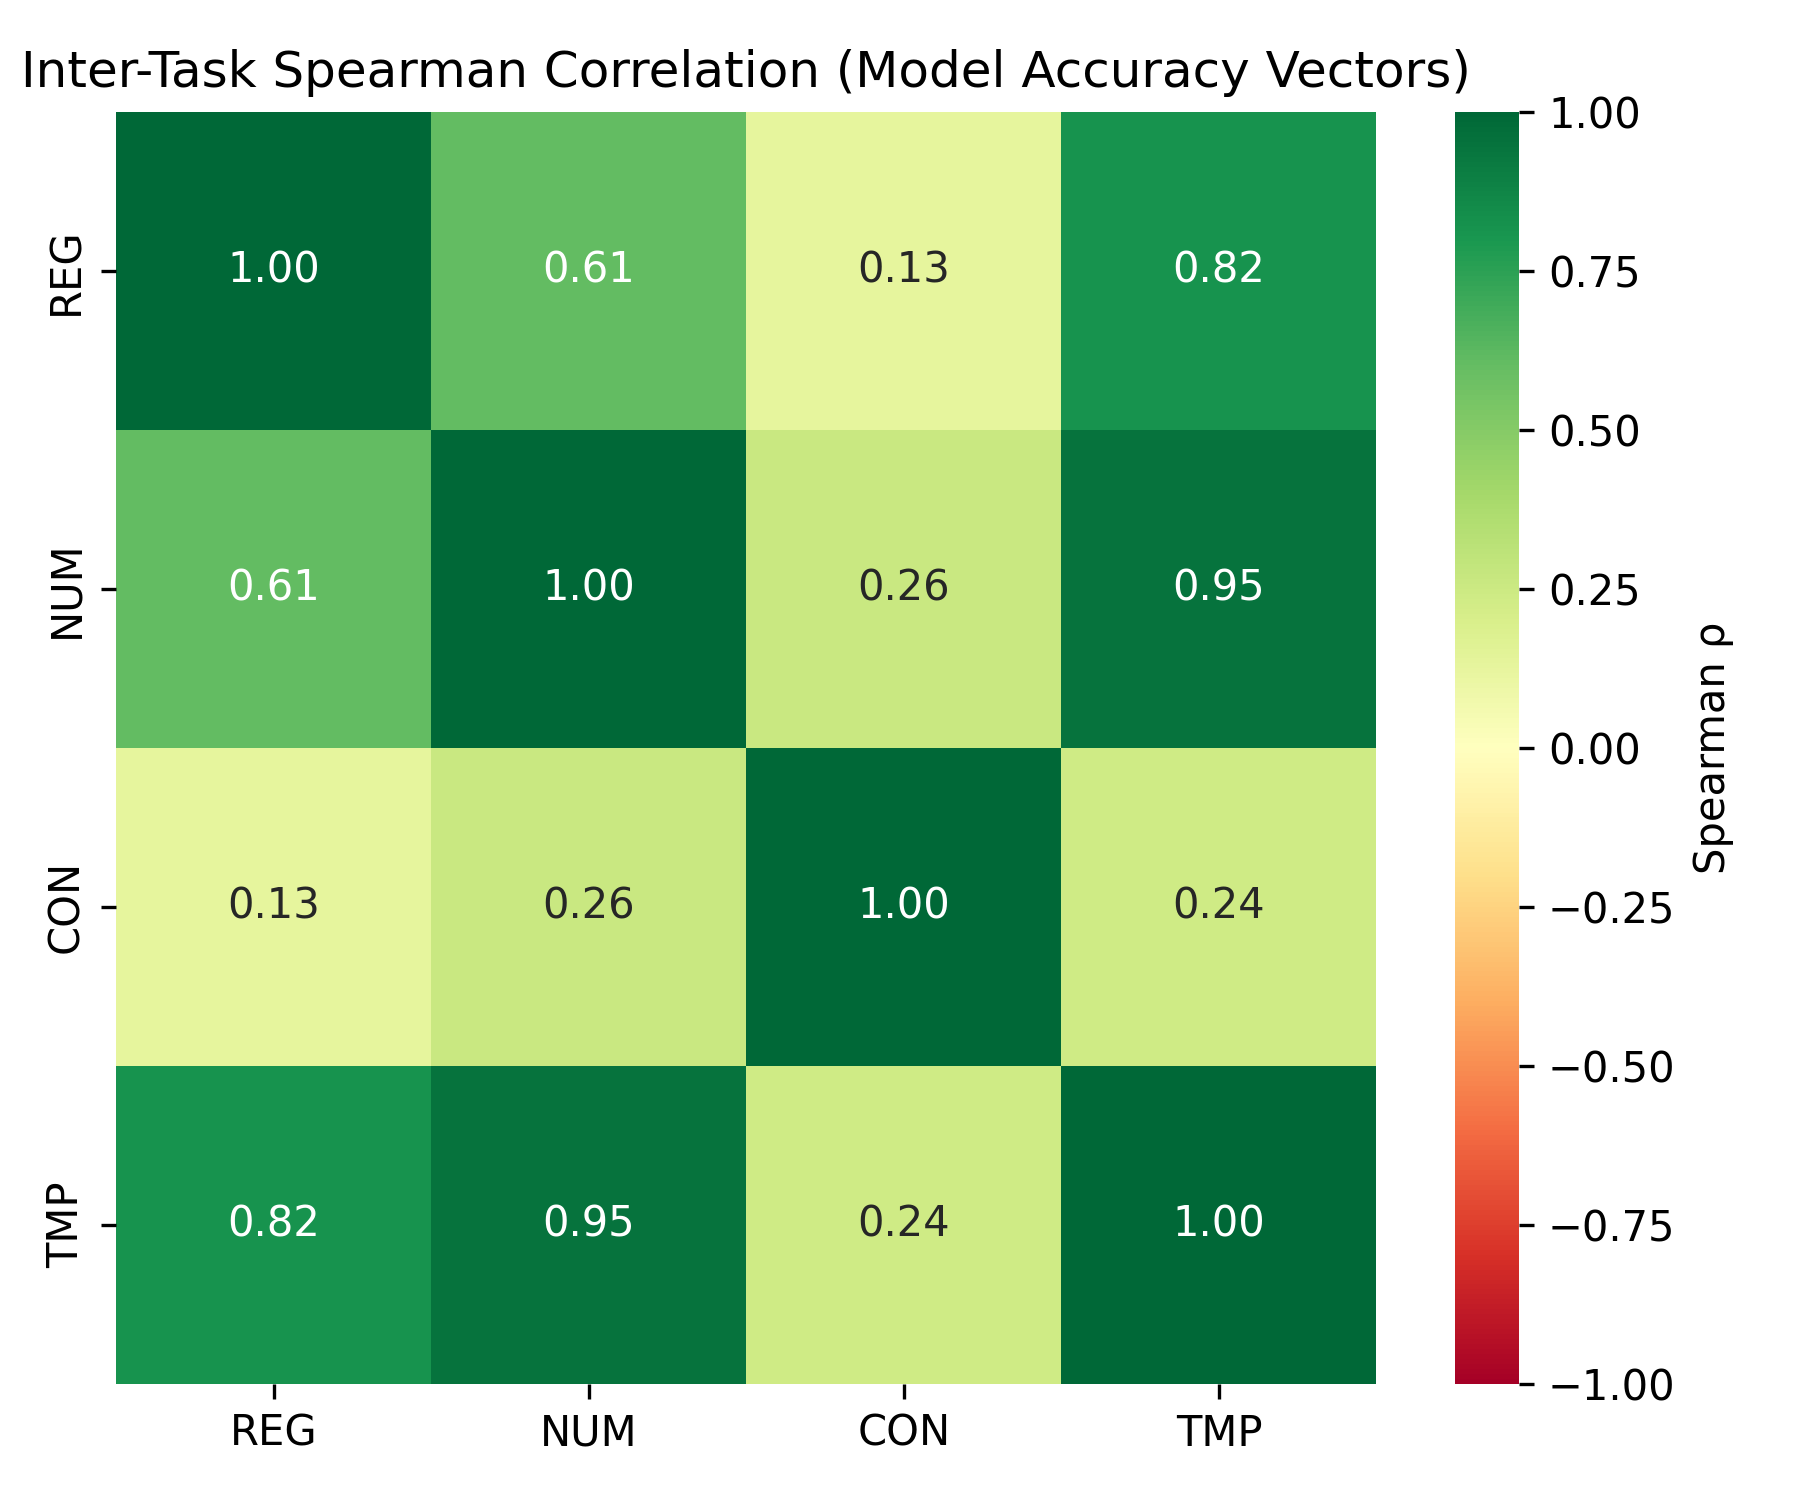
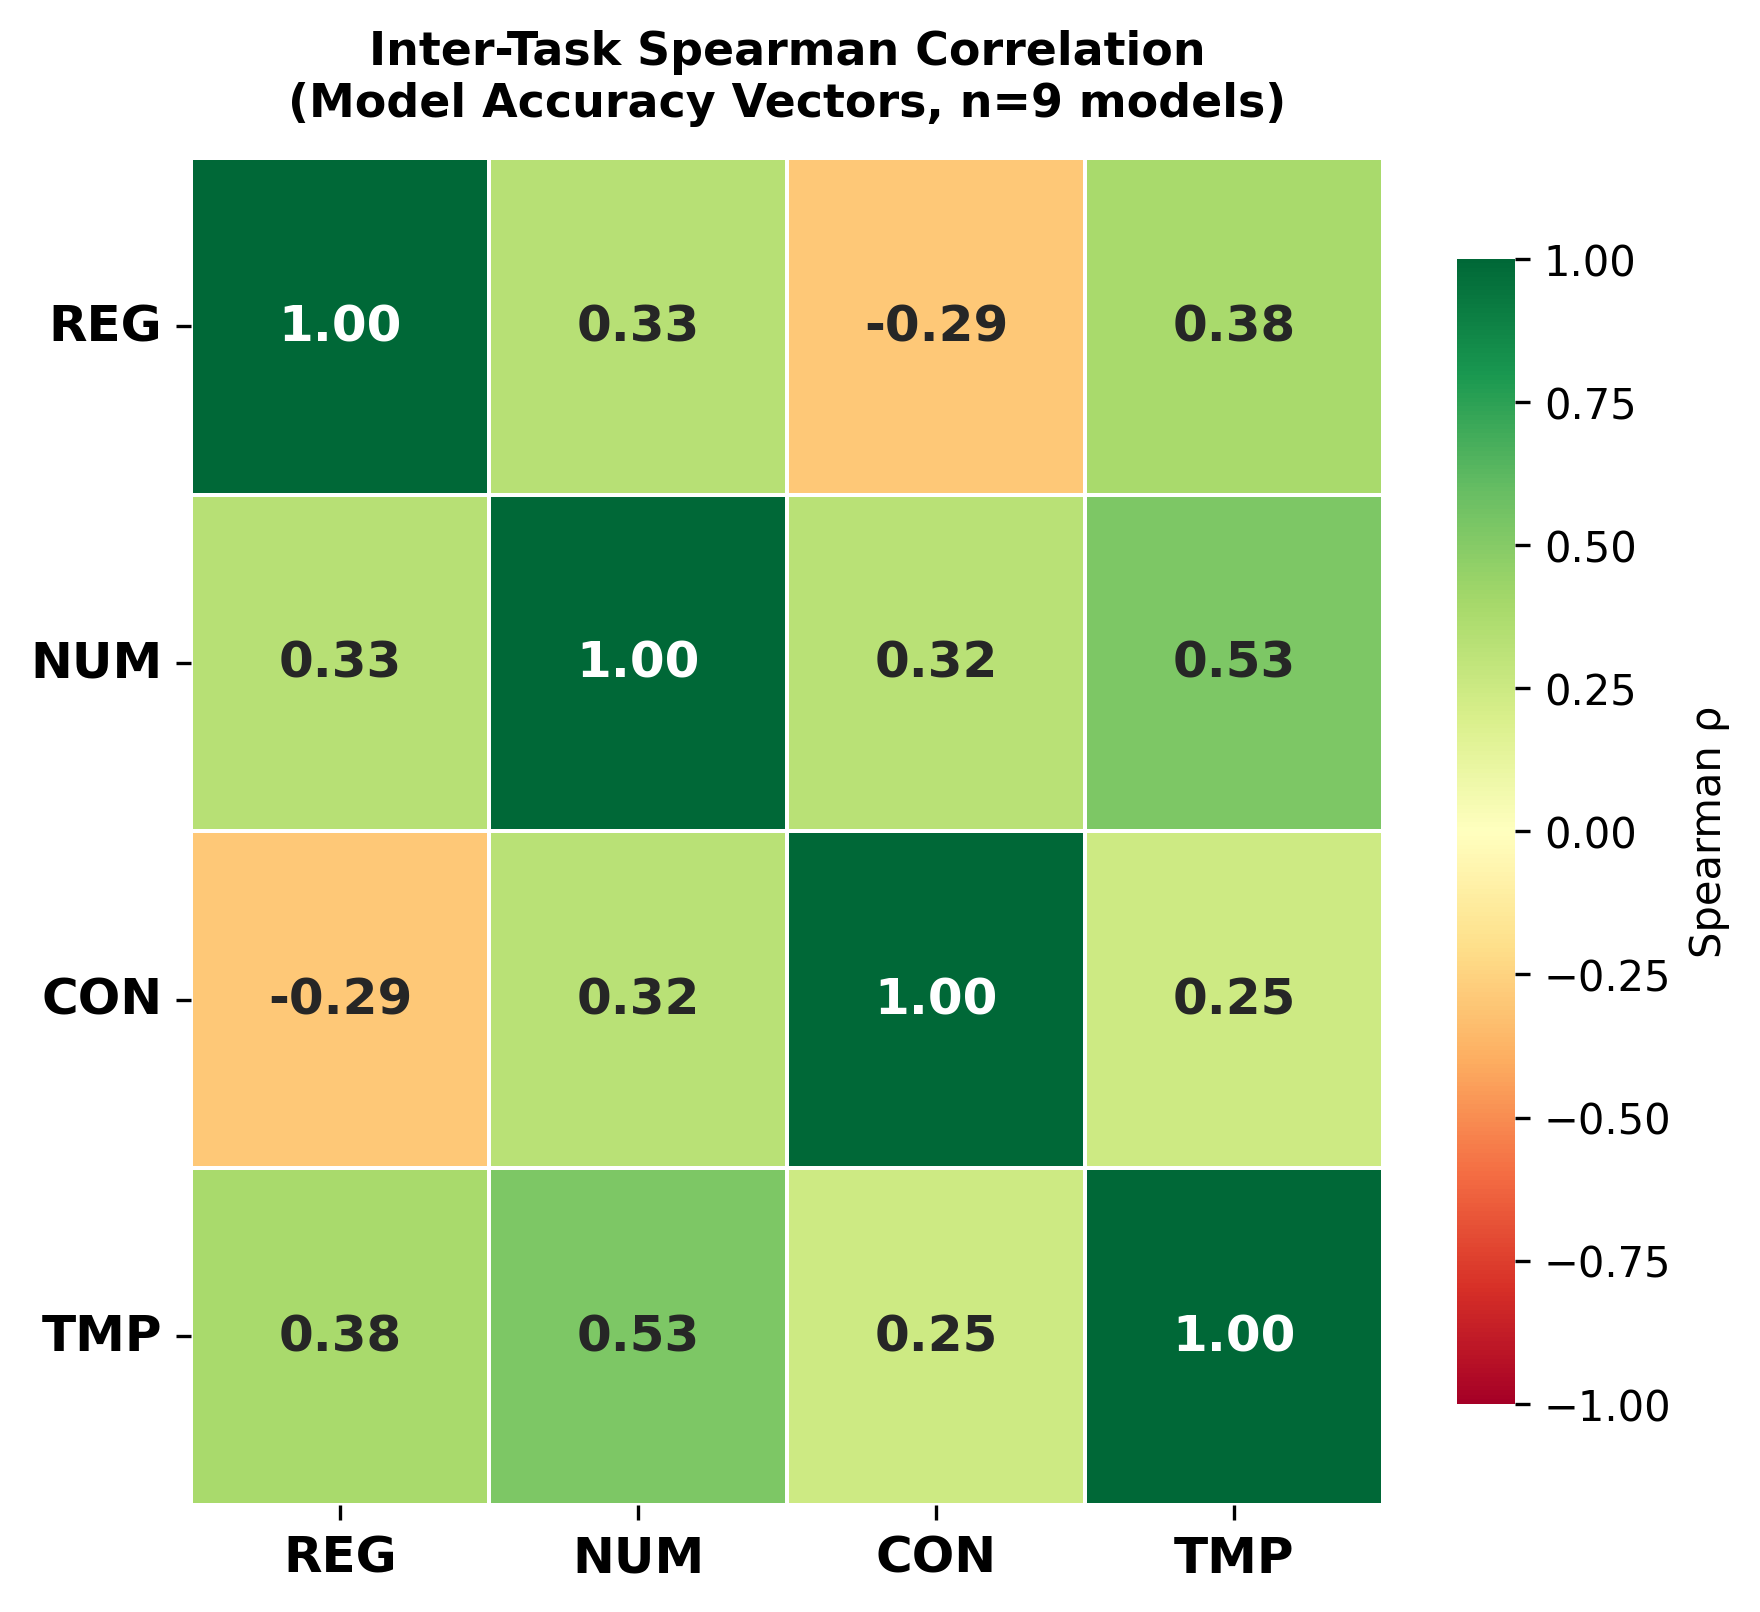
figures: update all 4 figures for 9-model evaluation

diff --git a/paper/figures/generate_radar.py b/paper/figures/generate_radar.py
@@ -1,34 +1,60 @@
-import numpy as np
+"""
+generate_radar.py — IndiaFinBench v7 (9 models)
+Run: python generate_radar.py
+Output: figures/radar_chart.png
+"""
+import matplotlib
+matplotlib.use('Agg')
 import matplotlib.pyplot as plt
+import numpy as np
 
-models = ['Claude 3 Haiku', 'Gemini 2.5 Flash', 'LLaMA-3.3-70B', 'LLaMA-3-8B', 'Mistral-7B']
+models = [
+    'Claude 3 Haiku', 'Gemini 2.5 Flash', 'Llama 4 Scout 17B',
+    'Qwen3-32B', 'LLaMA-3.3-70B', 'LLaMA-3-8B',
+    'Gemma 4 E4B', 'Mistral-7B', 'DeepSeek R1 70B'
+]
 scores = {
-    'Claude 3 Haiku':   [92.5, 93.8, 86.7, 91.4],
-    'Gemini 2.5 Flash': [96.2, 84.4, 83.3, 82.4],
-    'LLaMA-3.3-70B':    [77.4, 84.4, 90.0, 77.1],
-    'LLaMA-3-8B':       [77.4, 62.5, 86.7, 74.3],
-    'Mistral-7B':       [69.8, 68.8, 80.0, 74.3],
+    'Claude 3 Haiku':    [92.5, 93.8, 86.7, 91.4],
+    'Gemini 2.5 Flash':  [96.2, 84.4, 83.3, 80.0],
+    'Llama 4 Scout 17B': [79.2, 75.0,100.0, 80.0],
+    'Qwen3-32B':         [77.4, 75.0, 86.7, 94.3],
+    'LLaMA-3.3-70B':     [77.4, 84.4, 90.0, 77.1],
+    'LLaMA-3-8B':        [77.4, 62.5, 86.7, 74.3],
+    'Gemma 4 E4B':       [90.6, 65.6, 76.7, 57.1],
+    'Mistral-7B':        [69.8, 68.8, 80.0, 74.3],
+    'DeepSeek R1 70B':   [60.4, 78.1, 93.3, 60.0],
 }
-labels = ['REG', 'NUM', 'CON', 'TMP']
-colors = ['#2196F3', '#4CAF50', '#FF9800', '#9C27B0', '#F44336']
+COLORS  = ['#2196F3','#4CAF50','#FF9800','#9C27B0','#F44336','#00BCD4','#FF5722','#795548','#607D8B']
+MARKERS = ['o','s','^','D','v','P','h','*','X']
+labels  = ['REG\n(Reg. Interp.)','NUM\n(Num. Reasoning)','CON\n(Contradiction\nDet.)','TMP\n(Temporal\nReasoning)']
+
 N = 4
-angles = np.linspace(0, 2 * np.pi, N, endpoint=False).tolist()
-angles += angles[:1]
+angles = np.linspace(0, 2*np.pi, N, endpoint=False).tolist() + [0]
 
-fig, ax = plt.subplots(figsize=(7, 7), subplot_kw=dict(polar=True))
-ax.set_theta_offset(np.pi / 2)
+fig, ax = plt.subplots(figsize=(8,8), subplot_kw=dict(polar=True))
+ax.set_theta_offset(np.pi/2)
 ax.set_theta_direction(-1)
+ax.set_facecolor('#f9f9f9')
+fig.patch.set_facecolor('white')
 
-for idx, (model, vals) in enumerate(scores.items()):
-    vals_plot = vals + vals[:1]
-    ax.plot(angles, vals_plot, color=colors[idx], linewidth=2, label=model)
-    ax.fill(angles, vals_plot, color=colors[idx], alpha=0.08)
+for i, (model, col, mk) in enumerate(zip(models, COLORS, MARKERS)):
+    vals = scores[model] + [scores[model][0]]
+    lw = 2.5 if i < 2 else (2.0 if i < 5 else 1.5)
+    ls = '-'  if i < 5 else '--'
+    ax.plot(angles, vals, marker=mk, color=col, linewidth=lw,
+            linestyle=ls, markersize=5, label=model, alpha=0.88)
+    ax.fill(angles, vals, alpha=0.05, color=col)
 
-ax.set_thetagrids(np.degrees(angles[:-1]), labels, fontsize=14)
-ax.set_ylim(60, 100)
-ax.set_rgrids([70, 80, 90, 100], labels=['70%', '80%', '90%', '100%'], fontsize=9)
-ax.legend(loc='upper right', bbox_to_anchor=(1.4, 1.15), fontsize=10)
-ax.set_title('Model Capability Profiles Across Task Types', y=1.10, fontsize=14)
+ax.set_thetagrids(np.degrees(angles[:-1]), labels, fontsize=12, fontweight='bold')
+ax.set_ylim(50, 105)
+ax.set_rgrids([60,70,80,90,100], labels=['60%','70%','80%','90%','100%'], fontsize=9, color='grey')
+ax.grid(color='grey', linestyle='--', linewidth=0.5, alpha=0.5)
+ax.spines['polar'].set_visible(False)
+ax.legend(models, loc='upper right', bbox_to_anchor=(1.45,1.18),
+          fontsize=9, framealpha=0.92, edgecolor='#cccccc')
+ax.set_title('Model Capability Profiles Across Task Types', y=1.12, fontsize=14, fontweight='bold')
+
+import os; os.makedirs('figures', exist_ok=True)
 plt.tight_layout()
-plt.savefig('figures/radar_chart.png', dpi=300, bbox_inches='tight')
+plt.savefig('figures/radar_chart.png', dpi=300, bbox_inches='tight', facecolor='white')
 print("Saved figures/radar_chart.png")

diff --git a/paper/figures/generate_difficulty_plot.py b/paper/figures/generate_difficulty_plot.py
@@ -1,32 +1,54 @@
+"""
+generate_difficulty_plot.py — IndiaFinBench v7 (9 models)
+Run: python generate_difficulty_plot.py
+Output: figures/difficulty_lineplot.png
+"""
+import matplotlib
+matplotlib.use('Agg')
 import matplotlib.pyplot as plt
 import numpy as np
 
-models = ['Claude 3 Haiku', 'Gemini 2.5 Flash', 'LLaMA-3.3-70B', 'LLaMA-3-8B', 'Mistral-7B']
-difficulties = ['Easy', 'Medium', 'Hard']
+models = [
+    'Claude 3 Haiku', 'Gemini 2.5 Flash', 'Llama 4 Scout 17B',
+    'Qwen3-32B', 'LLaMA-3.3-70B', 'LLaMA-3-8B',
+    'Gemma 4 E4B', 'Mistral-7B', 'DeepSeek R1 70B'
+]
 accuracy_by_difficulty = {
-    'Claude 3 Haiku':   [90.8, 92.3, 90.0],
-    'Gemini 2.5 Flash': [95.4, 84.6, 73.7],
-    'LLaMA-3.3-70B':    [81.5, 78.5, 90.0],
-    'LLaMA-3-8B':       [81.5, 69.2, 75.0],
-    'Mistral-7B':       [72.3, 70.8, 80.0],
+    'Claude 3 Haiku':    [90.8, 92.3, 90.0],
+    'Gemini 2.5 Flash':  [95.4, 84.6, 70.0],
+    'Llama 4 Scout 17B': [86.2, 76.9, 90.0],
+    'Qwen3-32B':         [81.5, 83.1, 85.0],
+    'LLaMA-3.3-70B':     [81.5, 78.5, 90.0],
+    'LLaMA-3-8B':        [81.5, 69.2, 75.0],
+    'Gemma 4 E4B':       [90.8, 64.6, 55.0],
+    'Mistral-7B':        [72.3, 70.8, 80.0],
+    'DeepSeek R1 70B':   [72.3, 69.2, 70.0],
 }
-colors  = ['#2196F3', '#4CAF50', '#FF9800', '#9C27B0', '#F44336']
-markers = ['o', 's', '^', 'D', 'v']
+COLORS  = ['#2196F3','#4CAF50','#FF9800','#9C27B0','#F44336','#00BCD4','#FF5722','#795548','#607D8B']
+MARKERS = ['o','s','^','D','v','P','h','*','X']
 
-fig, ax = plt.subplots(figsize=(7, 5))
-x = np.arange(len(difficulties))
+fig, ax = plt.subplots(figsize=(10, 6))
+ax.set_facecolor('#f9f9f9'); fig.patch.set_facecolor('white')
+x = np.array([0, 1, 2])
 
-for idx, model in enumerate(models):
-    ax.plot(x, accuracy_by_difficulty[model], marker=markers[idx],
-            color=colors[idx], linewidth=2, markersize=8, label=model)
+for i, (model, col, mk) in enumerate(zip(models, COLORS, MARKERS)):
+    lw = 2.5 if i < 2 else (2.0 if i < 5 else 1.5)
+    ls = '-'  if i < 5 else '--'
+    ax.plot(x, accuracy_by_difficulty[model], marker=mk, color=col,
+            linewidth=lw, linestyle=ls, markersize=8, label=model, alpha=0.88)
 
+ax.axhline(60, color='#999', linestyle=':', linewidth=1.2, label='Human Expert (60.0%)')
 ax.set_xticks(x)
-ax.set_xticklabels(difficulties, fontsize=12)
+ax.set_xticklabels(['Easy\n(n=65)', 'Medium\n(n=65)', 'Hard\n(n=20)'], fontsize=12)
 ax.set_ylabel('Accuracy (%)', fontsize=12)
-ax.set_ylim(60, 100)
-ax.set_title('Model Accuracy by Difficulty Level', fontsize=13)
-ax.legend(fontsize=9, loc='lower left')
-ax.grid(axis='y', alpha=0.4)
+ax.set_ylim(45, 102)
+ax.yaxis.set_major_formatter(plt.FuncFormatter(lambda v,_: f'{v:.0f}%'))
+ax.grid(axis='y', linestyle='--', alpha=0.5, color='grey')
+ax.spines[['top','right']].set_visible(False)
+ax.legend(loc='lower left', fontsize=8.5, ncol=2, framealpha=0.92, edgecolor='#cccccc')
+ax.set_title('Model Accuracy by Difficulty Level (9 Models)', fontsize=13, fontweight='bold', pad=12)
+
+import os; os.makedirs('figures', exist_ok=True)
 plt.tight_layout()
-plt.savefig('figures/difficulty_lineplot.png', dpi=300)
+plt.savefig('figures/difficulty_lineplot.png', dpi=300, bbox_inches='tight', facecolor='white')
 print("Saved figures/difficulty_lineplot.png")

diff --git a/paper/figures/generate_heatmap.py b/paper/figures/generate_heatmap.py
@@ -1,13 +1,20 @@
+"""
+generate_heatmap.py — IndiaFinBench v7 (9 models)
+Run: python generate_heatmap.py
+Output: figures/inter_task_correlation.png
+"""
+import matplotlib
+matplotlib.use('Agg')
 import numpy as np
 import seaborn as sns
 import matplotlib.pyplot as plt
 from scipy.stats import spearmanr
 
 model_accuracies = {
-    'REG': [92.5, 96.2, 77.4, 77.4, 69.8],
-    'NUM': [93.8, 84.4, 84.4, 62.5, 68.8],
-    'CON': [86.7, 83.3, 90.0, 86.7, 80.0],
-    'TMP': [91.4, 82.4, 77.1, 74.3, 74.3],
+    'REG': [92.5, 96.2, 79.2, 77.4, 77.4, 77.4, 90.6, 69.8, 60.4],
+    'NUM': [93.8, 84.4, 75.0, 75.0, 84.4, 62.5, 65.6, 68.8, 78.1],
+    'CON': [86.7, 83.3,100.0, 86.7, 90.0, 86.7, 76.7, 80.0, 93.3],
+    'TMP': [91.4, 80.0, 80.0, 94.3, 77.1, 74.3, 57.1, 74.3, 60.0],
 }
 tasks = ['REG', 'NUM', 'CON', 'TMP']
 corr_matrix = np.zeros((4, 4))
@@ -16,11 +23,18 @@ for i, t1 in enumerate(tasks):
         r, _ = spearmanr(model_accuracies[t1], model_accuracies[t2])
         corr_matrix[i, j] = r
 
-fig, ax = plt.subplots(figsize=(6, 5))
-sns.heatmap(corr_matrix, annot=True, fmt='.2f', xticklabels=tasks,
-            yticklabels=tasks, cmap='RdYlGn', vmin=-1, vmax=1, ax=ax,
-            cbar_kws={'label': 'Spearman \u03c1'})
-ax.set_title("Inter-Task Spearman Correlation (Model Accuracy Vectors)")
+fig, ax = plt.subplots(figsize=(6, 5.5))
+fig.patch.set_facecolor('white')
+sns.heatmap(corr_matrix, annot=True, fmt='.2f', xticklabels=tasks, yticklabels=tasks,
+            cmap='RdYlGn', vmin=-1, vmax=1, ax=ax, linewidths=0.5,
+            cbar_kws={'label': 'Spearman ρ', 'shrink': 0.85},
+            annot_kws={'fontsize': 12, 'fontweight': 'bold'})
+ax.set_xticklabels(tasks, fontsize=12, fontweight='bold')
+ax.set_yticklabels(tasks, fontsize=12, fontweight='bold', rotation=0)
+ax.set_title('Inter-Task Spearman Correlation\n(Model Accuracy Vectors, n=9 models)',
+             fontsize=11, fontweight='bold', pad=10)
+
+import os; os.makedirs('figures', exist_ok=True)
 plt.tight_layout()
-plt.savefig('figures/inter_task_correlation.png', dpi=300)
+plt.savefig('figures/inter_task_correlation.png', dpi=300, bbox_inches='tight', facecolor='white')
 print("Saved figures/inter_task_correlation.png")
